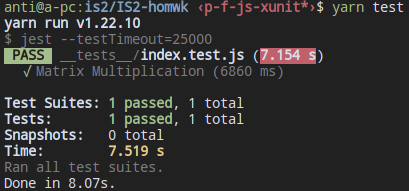
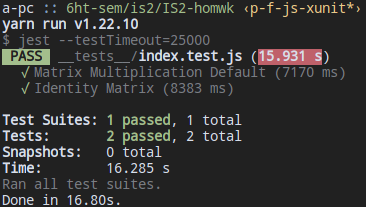
test-cases

Changed region(s): [[0.0, 0.0, 0.9918, 0.4712], [0.0, 0.4974, 0.6612, 0.9948]]

diff --git a/setup.js b/setup.js
@@ -1,83 +1,46 @@
 const { Builder, Key, until } = require('selenium-webdriver');
-
 const { ax, bx, rx } = require('./matrices');
+const { fillMatrices } = require('./utils');
 
-const mxprod = (a, b, ax, bx) => {
-  let r = [];
-  for (let i = 0; i < ax.r; i++) {
-    for (let j = 0; j < bx.c; j++) {
-      r[i * bx.c + j] = 0;
-      for (let k = 0; k < ax.c; k++) {
-        let ea = a[i * ax.c + k];
-        let eb = b[k * bx.c + j];
-        r[i * bx.c + j] += ea * eb;
-      }
+const setMatrix = async (driver, from, to) => {
+  for (let i = 0; i < to.r; i++) {
+    for (let j = 0; j < to.c; j++) {
+      let elem = await driver.findElement({ xpath: to.mx[i][j] });
+      await elem.clear();
+      await elem.sendKeys(from[i][j]);
     }
   }
-  return r;
 };
 
-const getValueByXpath = async (xpath, driver) => {
-  return driver.findElement({ xpath: xpath }).getAttribute('value');
-};
-
-const getTextByXpath = async (xpath, driver) => {
-  return driver.findElement({ xpath: xpath }).getText();
-};
-
-const fillMatrices = async (mx, driver, isResult = false) => {
-  let m = [];
-  for (let i = 0; i < mx.length; i++) {
-    for (let j = 0; j < mx[i].length; j++) {
-      m[i * mx[i].length + j] = isResult
-        ? getTextByXpath(mx[i][j], driver)
-        : getValueByXpath(mx[i][j], driver);
-    }
-  }
-  return Promise.all(m).then(values => values.map(value => Number(value)));
-};
-
-const setUpMatrices = async () => {
+const setUpMatrices = async (fromA = null, fromB = null) => {
   let r = {};
   let driver = new Builder().forBrowser('chrome').build();
   await driver.get('http://matrixmultiplication.xyz/');
   r.page_title = await driver.getTitle();
-  // r.html = await driver.getPageSource();
-  // r.title = await driver.findElement({ className: 'title fq5xi0j' }).getText();
+  if (fromA) await setMatrix(driver, fromA, ax);
+  if (fromB) await setMatrix(driver, fromB, bx);
   const data = await Promise.all([
     fillMatrices(ax.mx, driver),
     fillMatrices(bx.mx, driver),
   ]);
   r.ma = data[0];
   r.mb = data[1];
-  //MULTIPLY
+  //Multiply
   const multiplyBtn = await driver.findElement({
     className: 'multiply flk4j4b',
   });
+  // multiplyBtn.clear
   await multiplyBtn.click();
-  const endBtn = await driver.wait(
-    until.elementLocated({ className: 'end fljzbrb' })
-  );
+  const endBtn = await driver.wait(until.elementLocated({ className: 'end fljzbrb' }));
   await endBtn.click();
   const resetBtn = await driver.wait(
     until.elementLocated({ className: 'reset flk4j4b' })
   );
   r.mr = await fillMatrices(rx.mx, driver, (isResult = true));
-  // console.log(r);
-  // let result = mxprod(r.ma, r.mb, ax, bx);
-  // search.sendKeys();
-  // if (JSON.stringify(result) === JSON.stringify(r.mr)) {
-  //   console.log('same');
-  // } else {
-  //   console.log('different');
-  // }
-  driver.quit();
+  await driver.quit();
   return r;
 };
 
-// const result = await setUpMatrices();
-
 module.exports = {
-  result: (async () => await setUpMatrices())(),
-  mmult: mxprod,
+  setUpMatrices: setUpMatrices,
 };

diff --git a/utils.js b/utils.js
@@ -1,0 +1,41 @@
+const mxprod = (a, b, ax, bx) => {
+  let r = [];
+  for (let i = 0; i < ax.r; i++) {
+    for (let j = 0; j < bx.c; j++) {
+      r[i * bx.c + j] = 0;
+      for (let k = 0; k < ax.c; k++) {
+        let ea = a[i * ax.c + k];
+        let eb = b[k * bx.c + j];
+        r[i * bx.c + j] += ea * eb;
+      }
+    }
+  }
+  return r;
+};
+
+const getValueByXpath = async (xpath, driver) => {
+  return driver.findElement({ xpath: xpath }).getAttribute('value');
+};
+
+const getTextByXpath = async (xpath, driver) => {
+  return driver.findElement({ xpath: xpath }).getText();
+};
+
+const fillMatrices = async (mx, driver, isResult = false) => {
+  let m = [];
+  for (let i = 0; i < mx.length; i++) {
+    for (let j = 0; j < mx[i].length; j++) {
+      m[i * mx[i].length + j] = isResult
+        ? getTextByXpath(mx[i][j], driver)
+        : getValueByXpath(mx[i][j], driver);
+    }
+  }
+  return Promise.all(m).then(values => values.map(value => Number(value)));
+};
+
+module.exports = {
+  getTextByXpath: getTextByXpath,
+  getValueByXpath: getValueByXpath,
+  fillMatrices: fillMatrices,
+  mxprod: mxprod,
+};

diff --git a/__tests__/index.test.js b/__tests__/index.test.js
@@ -1,7 +1,25 @@
-const { result, mmult } = require('../setup');
+const { setUpMatrices } = require('../setup');
 const { ax, bx } = require('../matrices');
+const { mxprod } = require('../utils');
 
-test('Matrix Multiplication', async () => {
-  const r = await result;
-  expect(r.mr).toEqual(mmult(r.ma, r.mb, ax, bx));
+const test_identity_a = [
+  ['1', '0', '0'],
+  ['0', '1', '0'],
+  ['0', '0', '1'],
+];
+const test_identity_b = [
+  ['1', '2'],
+  ['3', '4'],
+  ['5', '6'],
+];
+
+test('Matrix Multiplication Default', async () => {
+  const r = await setUpMatrices();
+  expect(r.mr).toEqual(mxprod(r.ma, r.mb, ax, bx));
+});
+
+test('Identity Matrix', async () => {
+  const r = await setUpMatrices(test_identity_a, test_identity_b);
+  // r.mb  = test_identity_b
+  expect(r.mb).toEqual(mxprod(r.ma, r.mb, ax, bx));
 });

diff --git a/README.md b/README.md
@@ -8,20 +8,23 @@
 
 La entrada es la matriz default de la pagina web <link>http://matrixmultiplication.xyz/</link>
 
-### Matriz A
 
-| 1 | 2 | 1 |
-|---|---|---|
-| 0 | 1 | 0 |
-| 2 | 3 | 4 |
+## Casos de prueba
+
+| Step     | Action                                                       | Expected Result                                        |
+|----------|--------------------------------------------------------------|--------------------------------------------------------|
+| Prereq 1 | Tener una conexion con el web browser                        |                                                        |
+| Prereq 2 | Tener una conexion con el web browser                        |                                                        |
+| 1        | Realizar multiplicacion con los valores por defecto          |                                                        |
+| 1.1      | Llenar la matriz A con los valores por defecto               | Lee correctamente los valores de la matriz A           |
+| 1.2      | Llenar la matriz B con los valores por defecto               | Lee correctamente los valores de la matriz B           |
+| 1.3      | Click en Multiplicar, luego en Next                          | El resultado de la multiplicacion debe ser el correcto |
+| 2        | Realizar multiplicacion con Matriz Identidad                 |                                                        |
+| 2.1      | Cambiar la matriz A con los valores de la matriz Identidad   | Se cambia correctamente los valores                    |
+| 2.2      | Cambiar la matriz A con los valores de la matriz B de prueba | Se cambia correctamente los valores                    |
+| 2.3      | Click en Multiplicar, luego en Next                          | El resultado de la multiplicacion debe ser la matriz B |
 
 
-### Matriz B
-
-| 2 | 5 |
-|---|---|
-| 6 | 7 |
-| 1 | 8 |
 
 
 ## Proceso
@@ -163,13 +166,26 @@ const mxprod = (a, b, ax, bx) => {
 
 Comparacion usando xunit, haciendo uso de la libreria jest.
 ```js
-const { result, mmult } = require('../setup');
-const { ax, bx } = require('../matrices');
+const test_identity_a = [
+  ['1', '0', '0'],
+  ['0', '1', '0'],
+  ['0', '0', '1'],
+];
+const test_identity_b = [
+  ['1', '2'],
+  ['3', '4'],
+  ['5', '6'],
+];
 
-test('Matrix Multiplication', async () => {
-  // assertion
-  const r = await result;
-  expect(r.mr).toEqual(mmult(r.ma, r.mb, ax, bx));
+test('Matrix Multiplication Default', async () => {
+  const r = await setUpMatrices();
+  expect(r.mr).toEqual(mxprod(r.ma, r.mb, ax, bx));
+});
+
+test('Identity Matrix', async () => {
+  const r = await setUpMatrices(test_identity_a, test_identity_b);
+  // r.mb  = test_identity_b
+  expect(r.mb).toEqual(mxprod(r.ma, r.mb, ax, bx));
 });
 ```
 <div style="text-align:center"><img src="img/test.png"/></div>
